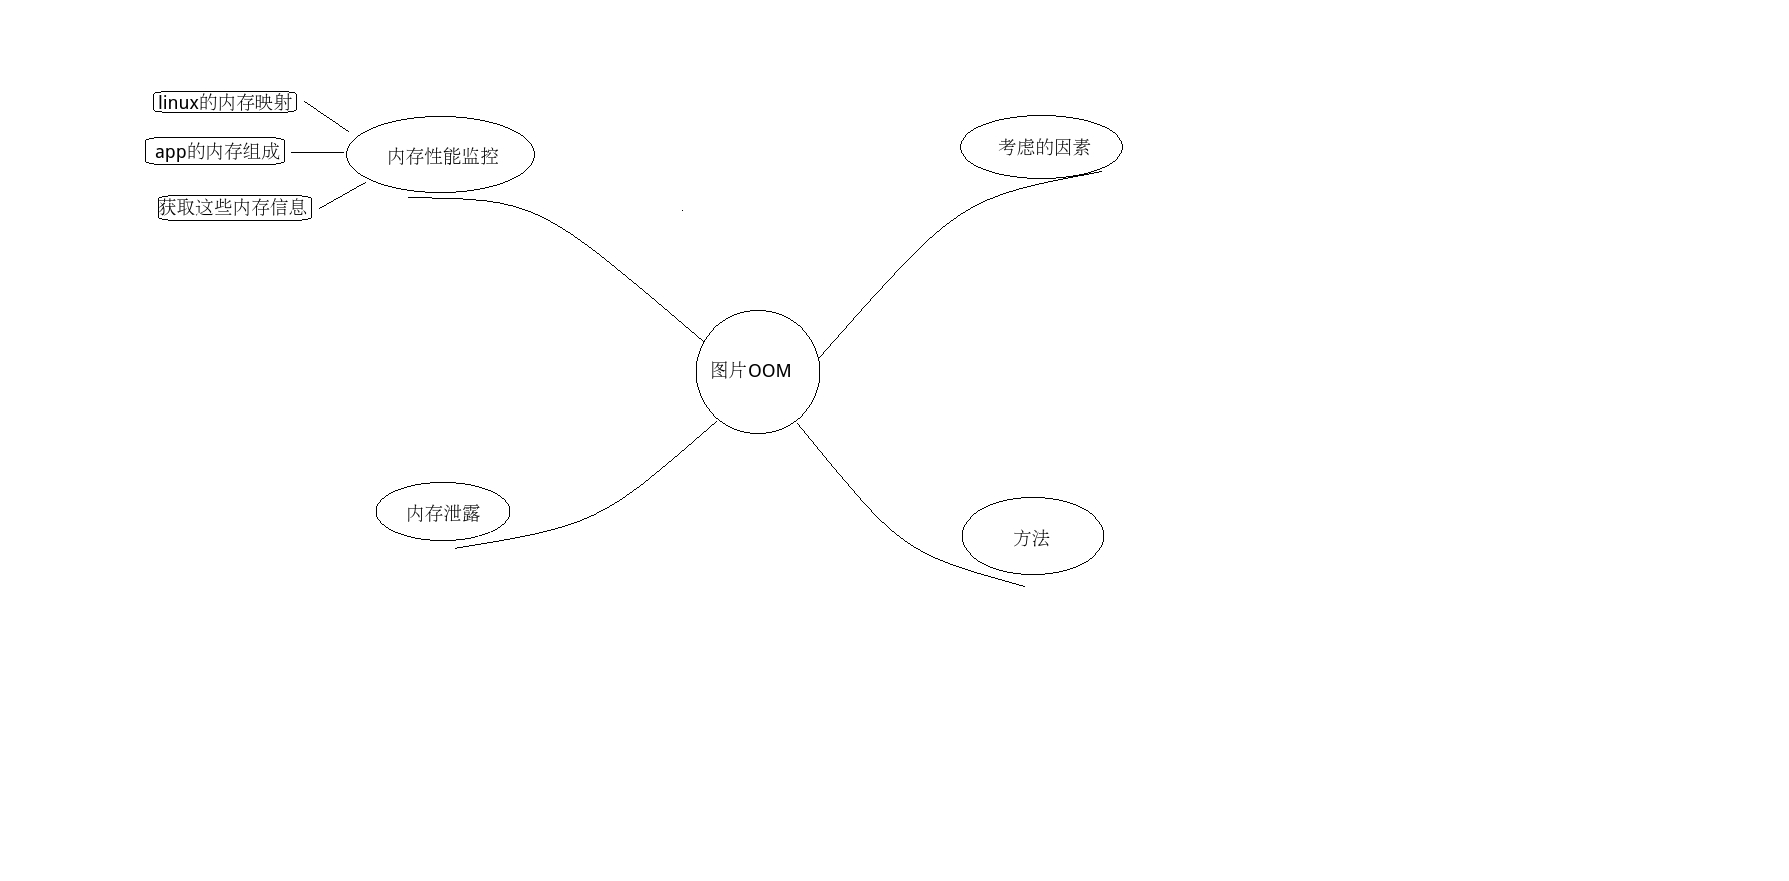
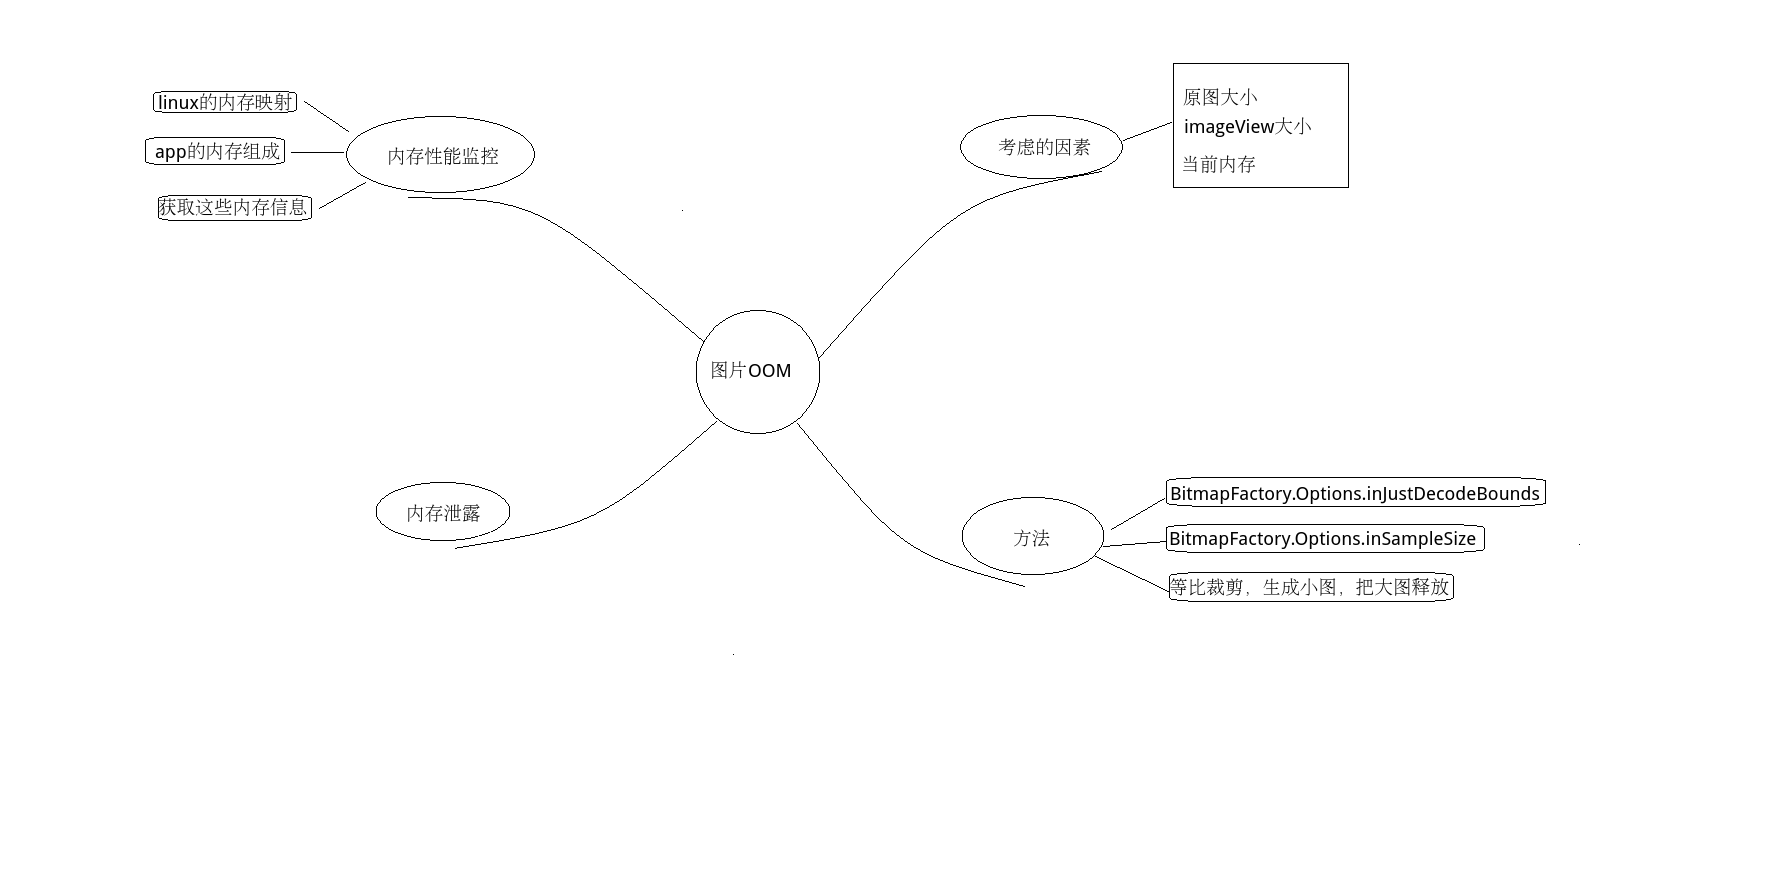
实现按密缩放。

Changed region(s): [[0.6456, 0.5516, 0.8608, 0.6742], [0.6456, 0.0919, 0.7378, 0.1532], [0.6456, 0.1839, 0.7071, 0.2145]]

diff --git a/app/src/main/java/com/sevent/oom/OOMActivity.java b/app/src/main/java/com/sevent/oom/OOMActivity.java
@@ -2,13 +2,15 @@ package com.sevent.oom;
 
 import android.app.Activity;
 import android.app.ActivityManager;
+import android.graphics.Bitmap;
+import android.graphics.BitmapFactory;
 import android.os.Bundle;
-import android.support.annotation.Nullable;
 import android.view.View;
 import android.widget.EditText;
 import android.widget.ImageView;
 import android.widget.TextView;
 
+import com.images.utils.ImageUtil;
 import com.seven.cutpic.R;
 
 import java.util.ArrayList;
@@ -17,13 +19,13 @@ import java.util.List;
 /**
  * Created by htyuan on 15-6-18.
  */
-public class OOMActivity extends Activity implements View.OnClickListener{
+public class OOMActivity extends Activity implements View.OnClickListener {
     private TextView mMemInfoView;
     private EditText mAllocateAmountView;
     private ImageView mImageView;
-    private List<byte[]> mAllocateMEM = new ArrayList<>();
+    private List<byte[]> mAllocateMEM = new ArrayList<byte[]>();
 
-    protected void onCreate(@Nullable Bundle savedInstanceState) {
+    protected void onCreate(Bundle savedInstanceState) {
         super.onCreate(savedInstanceState);
 
         setContentView(R.layout.activity_oom);
@@ -39,18 +41,20 @@ public class OOMActivity extends Activity implements View.OnClickListener{
 
     @Override
     public void onClick(View v) {
-         if (v.getId() == R.id.show_mem_info) {
-             updateMemeInfo();
-         } else if (v.getId() == R.id.allocate){
-             allocateMem();
-         } else if (v.getId() == R.id.gc) {
-             gc();
-         }
+        if (v.getId() == R.id.show_mem_info) {
+            updateMemeInfo();
+        } else if (v.getId() == R.id.allocate) {
+            allocateMem();
+        } else if (v.getId() == R.id.gc) {
+            gc();
+        } else if (v.getId() == R.id.load_image)
+            loadImg();
     }
 
-    private void gc() {
-        mAllocateMEM.clear();
-        System.gc();
+    private void loadImg() {
+        Bitmap bitmap = ImageUtil.decodeSampledBitmapFromResource(getResources(), R.drawable.ic_oom_test, 300, 200);
+
+        mImageView.setImageBitmap(bitmap);
     }
 
     private void allocateMem() {
@@ -75,5 +79,11 @@ public class OOMActivity extends Activity implements View.OnClickListener{
         sb.append("from runtime : " + "totalMem:" + runTimeinfo.totalMemory() + "," + "availMen:" + runTimeinfo.freeMemory());
 
         mMemInfoView.setText(sb.toString());
+    }
+
+
+    private void gc() {
+        mAllocateMEM.clear();
+        System.gc();
     }
 }

diff --git a/app/src/main/java/com/images/utils/ImageUtil.java b/app/src/main/java/com/images/utils/ImageUtil.java
@@ -1,0 +1,59 @@
+package com.images.utils;
+
+import android.content.res.Resources;
+import android.graphics.Bitmap;
+import android.graphics.BitmapFactory;
+
+/**
+ * Created by htyuan on 15-6-18.
+ */
+public class ImageUtil {
+    /**
+     * 按密等比压缩图片
+     *
+     * @param res
+     * @param resId
+     * @param reqWidth
+     * @param reqHeight
+     * @return
+     */
+    public static Bitmap decodeSampledBitmapFromResource(Resources res, int resId,
+                                                         int reqWidth, int reqHeight) {
+
+        // First decode with inJustDecodeBounds=true to check dimensions
+        final BitmapFactory.Options options = new BitmapFactory.Options();
+        options.inJustDecodeBounds = true;
+        BitmapFactory.decodeResource(res, resId, options);
+
+        // Calculate inSampleSize
+        options.inSampleSize = calculateInSampleSize(options, reqWidth, reqHeight);
+
+        // Decode bitmap with inSampleSize set
+        options.inJustDecodeBounds = false;
+        return BitmapFactory.decodeResource(res, resId, options);
+    }
+
+    private static int calculateInSampleSize(
+            BitmapFactory.Options options, int reqWidth, int reqHeight) {
+        // Raw height and width of image
+        final int height = options.outHeight;
+        final int width = options.outWidth;
+        int inSampleSize = 1;
+
+        if (height > reqHeight || width > reqWidth) {
+
+            final int halfHeight = height / 2;
+            final int halfWidth = width / 2;
+
+            // Calculate the largest inSampleSize value that is a power of 2 and keeps both
+            // height and width larger than the requested height and width.
+            while ((halfHeight / inSampleSize) > reqHeight
+                    && (halfWidth / inSampleSize) > reqWidth) {
+                inSampleSize *= 2;
+            }
+        }
+
+        return inSampleSize;
+    }
+
+}
